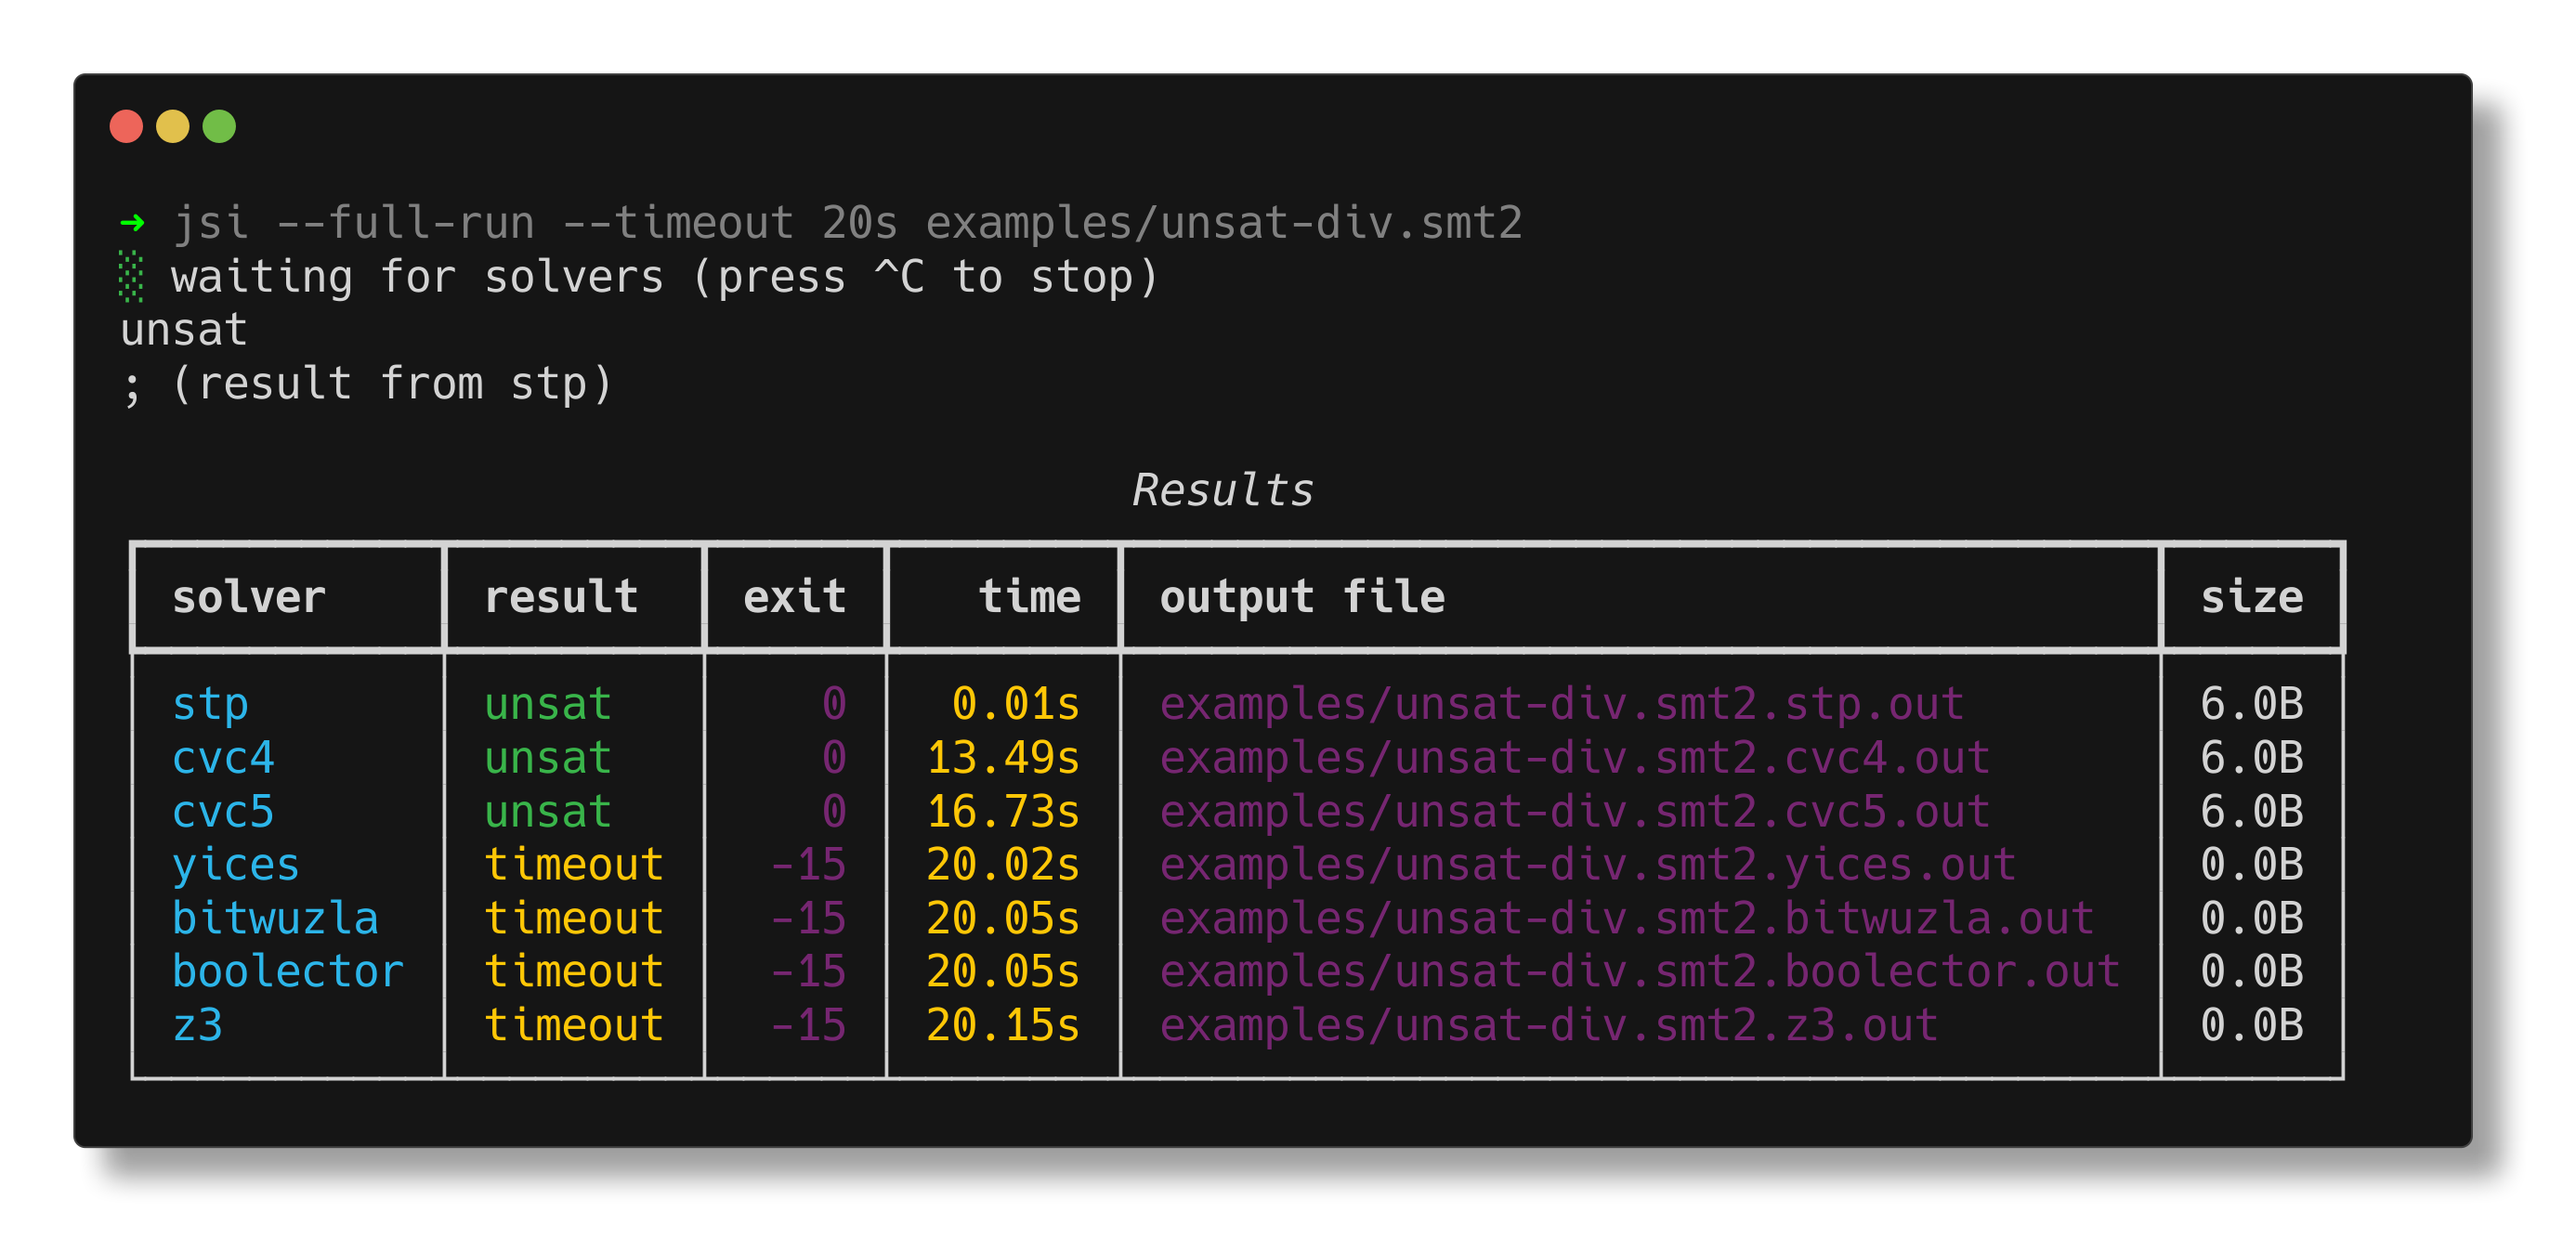
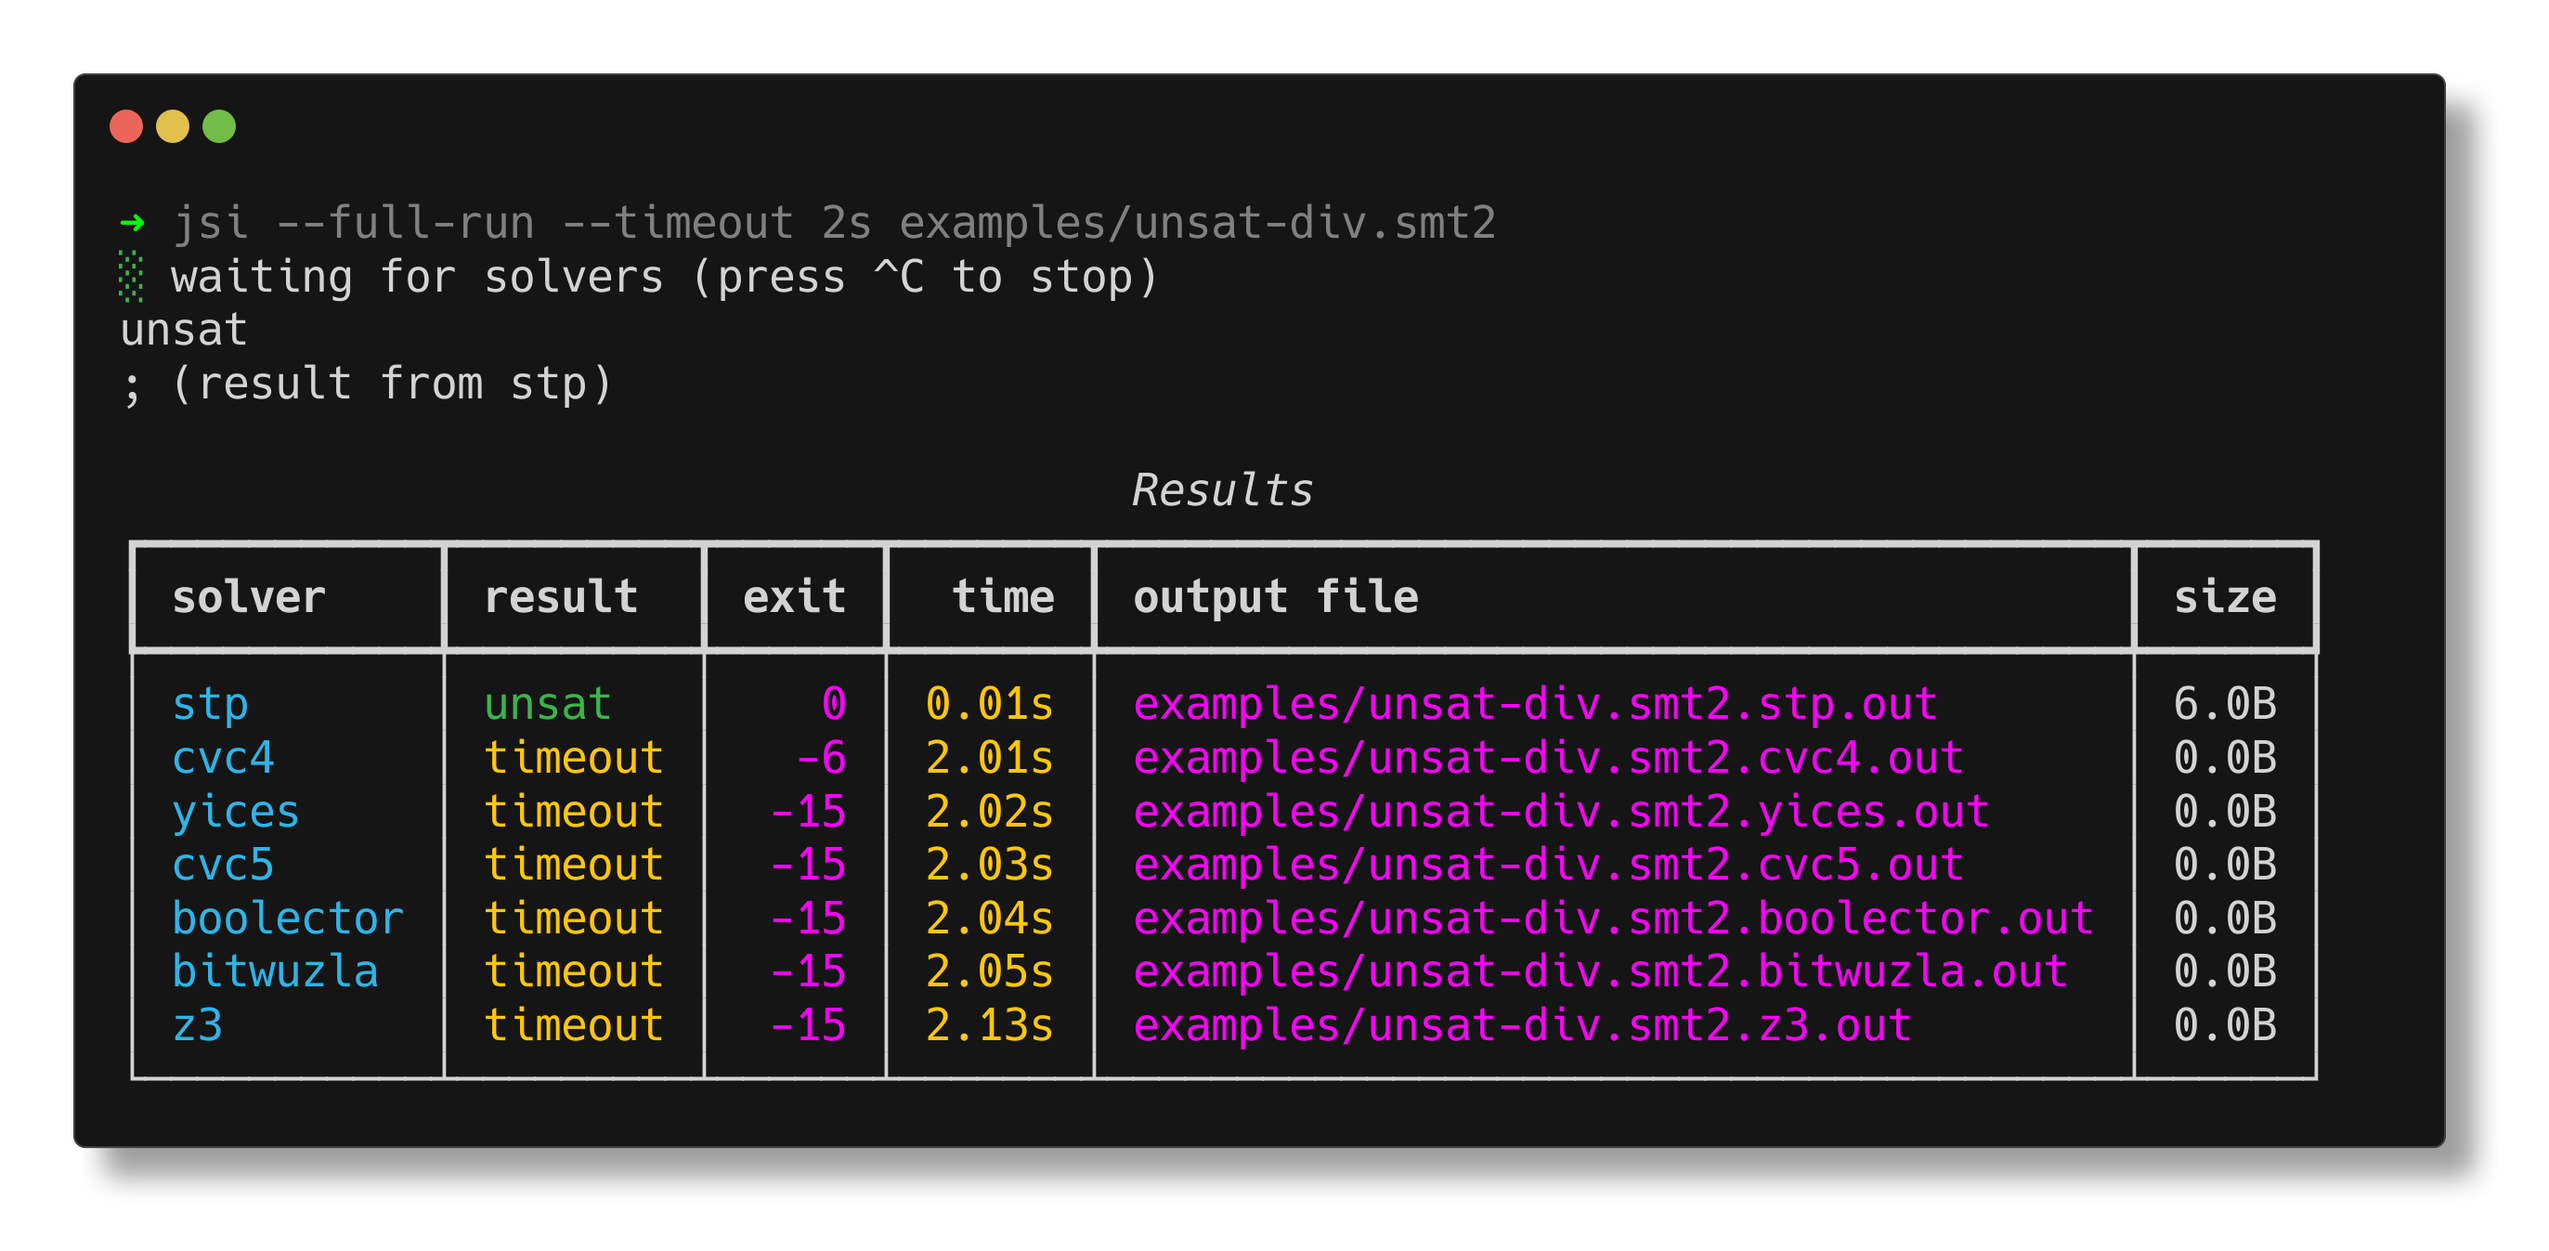
use bright magenta for output

diff --git a/src/jsi/output/fancy.py b/src/jsi/output/fancy.py
@@ -30,16 +30,16 @@ def styled_size(size: int) -> Text:
 
 
 def styled_output(command: Command) -> Text:
-    return Text(file_loc(command.stdout), style="magenta")
+    return Text(file_loc(command.stdout), style="bright_magenta")
 
 
 def get_results_table(controller: ProcessController) -> Table:
     table = Table(title="Results")
     table.add_column("solver", style="cyan")
     table.add_column("result")
-    table.add_column("exit", style="magenta", justify="right")
+    table.add_column("exit", style="bright_magenta", justify="right")
     table.add_column("time", justify="right", style="yellow")
-    table.add_column("output file", justify="left", style="magenta", overflow="fold")
+    table.add_column("output file", style="bright_magenta", overflow="fold")
     table.add_column("size", justify="right")
 
     commands = controller.commands
